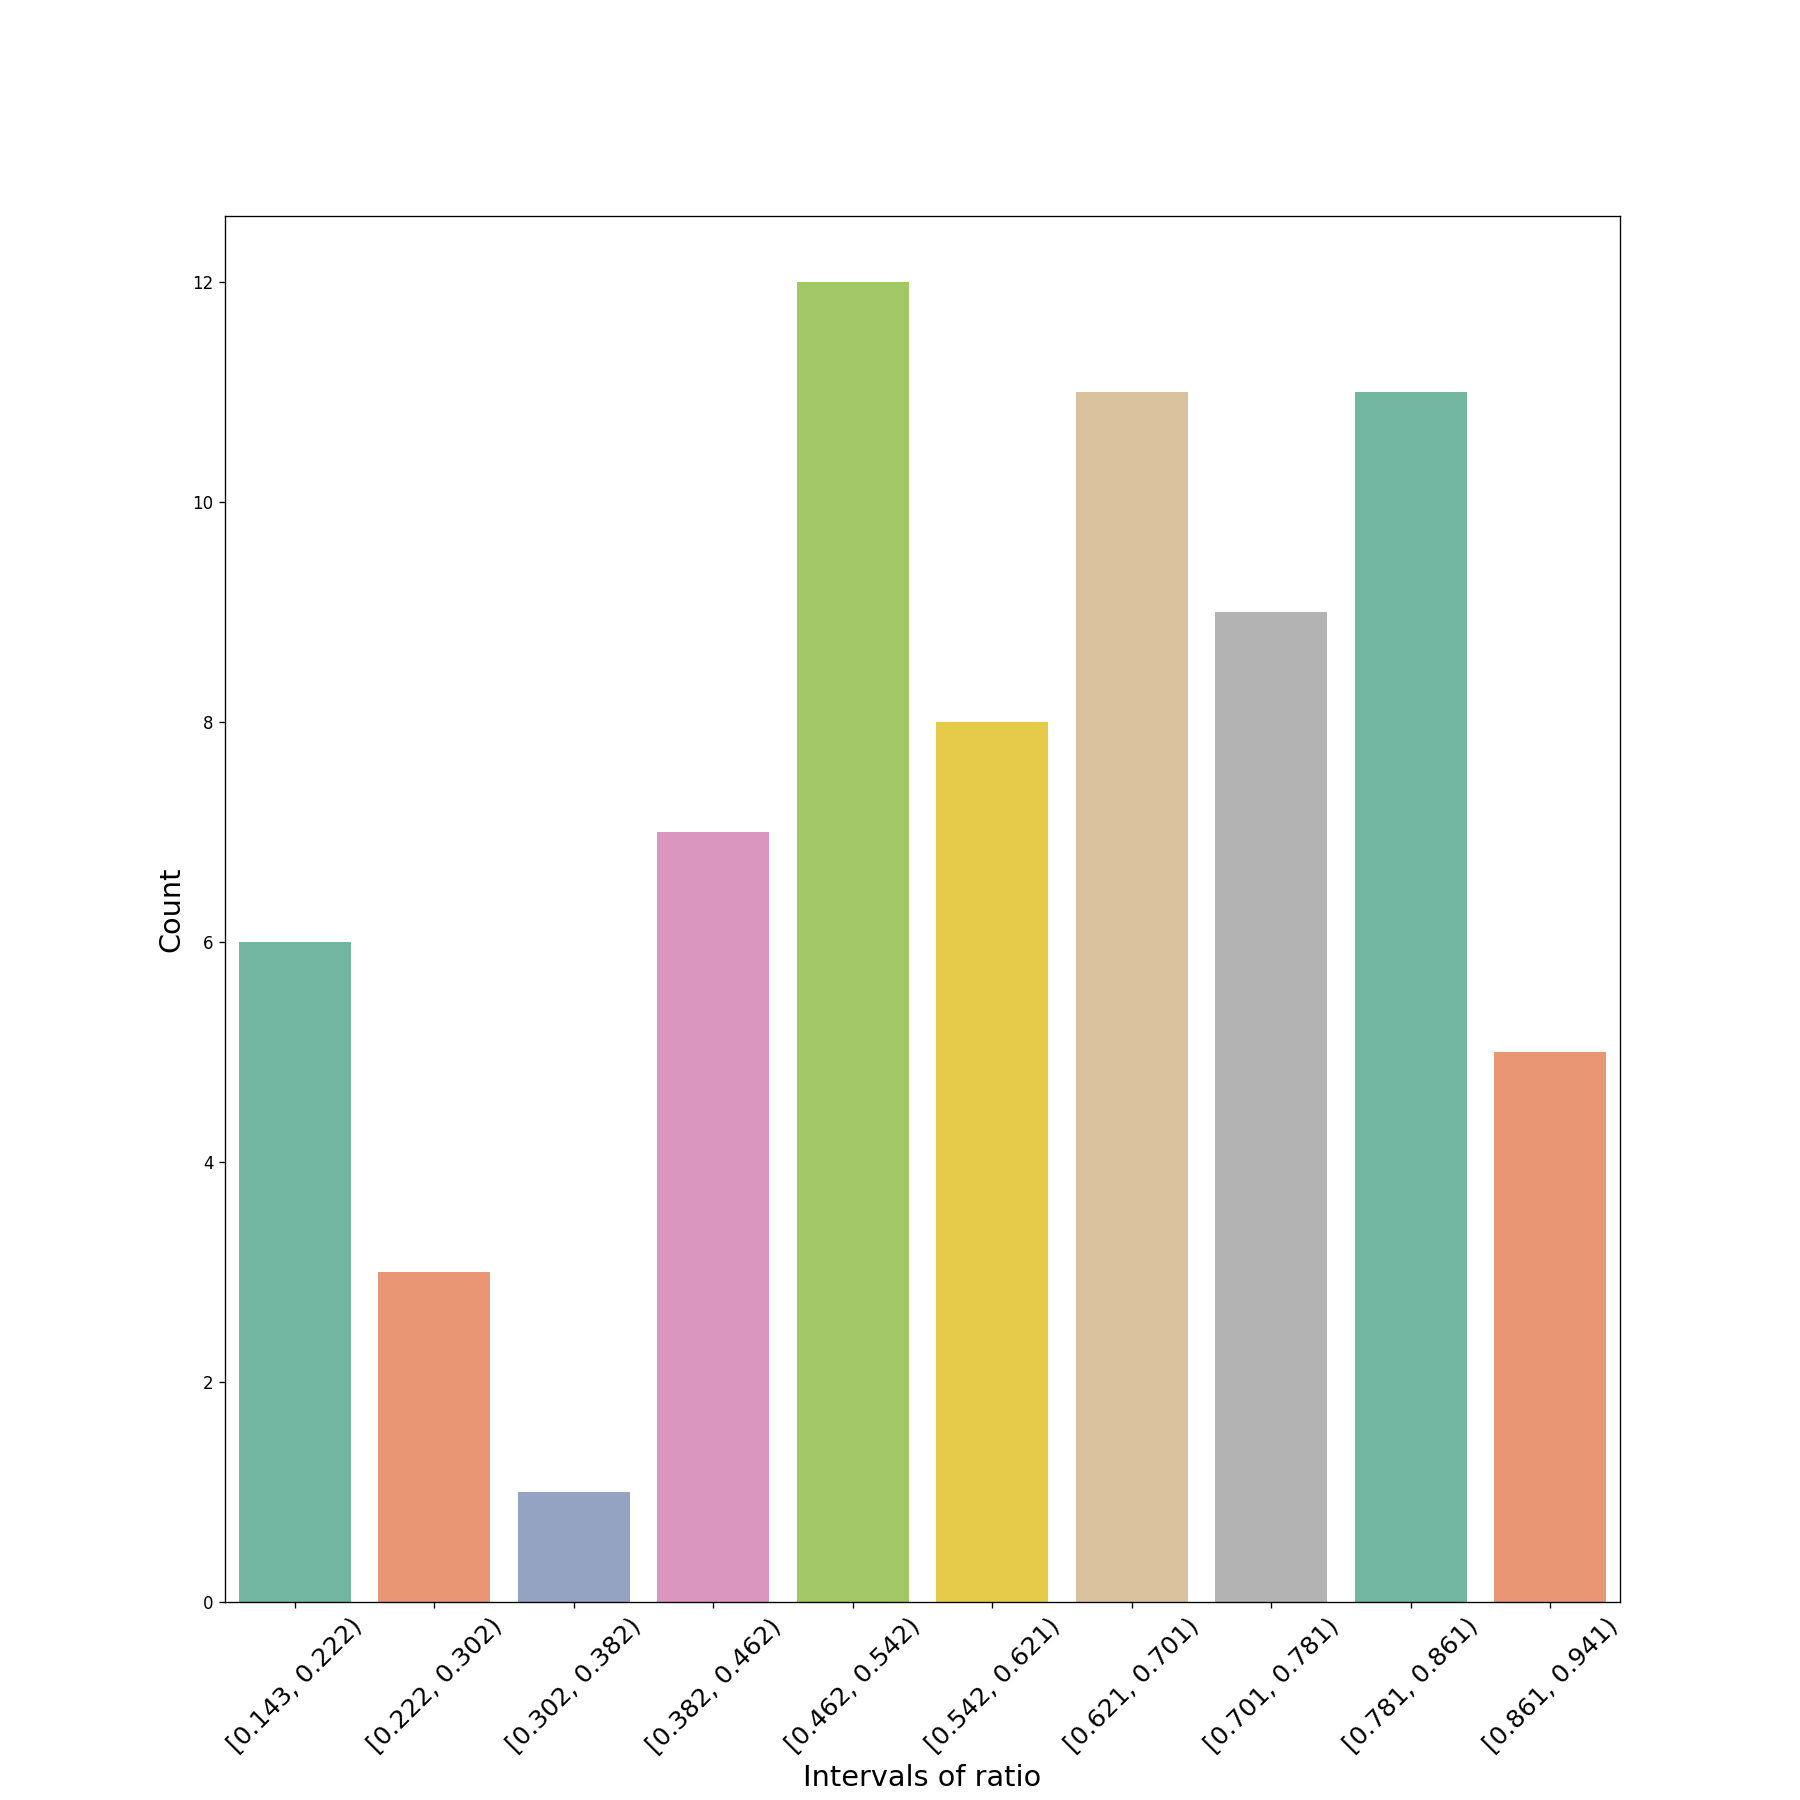
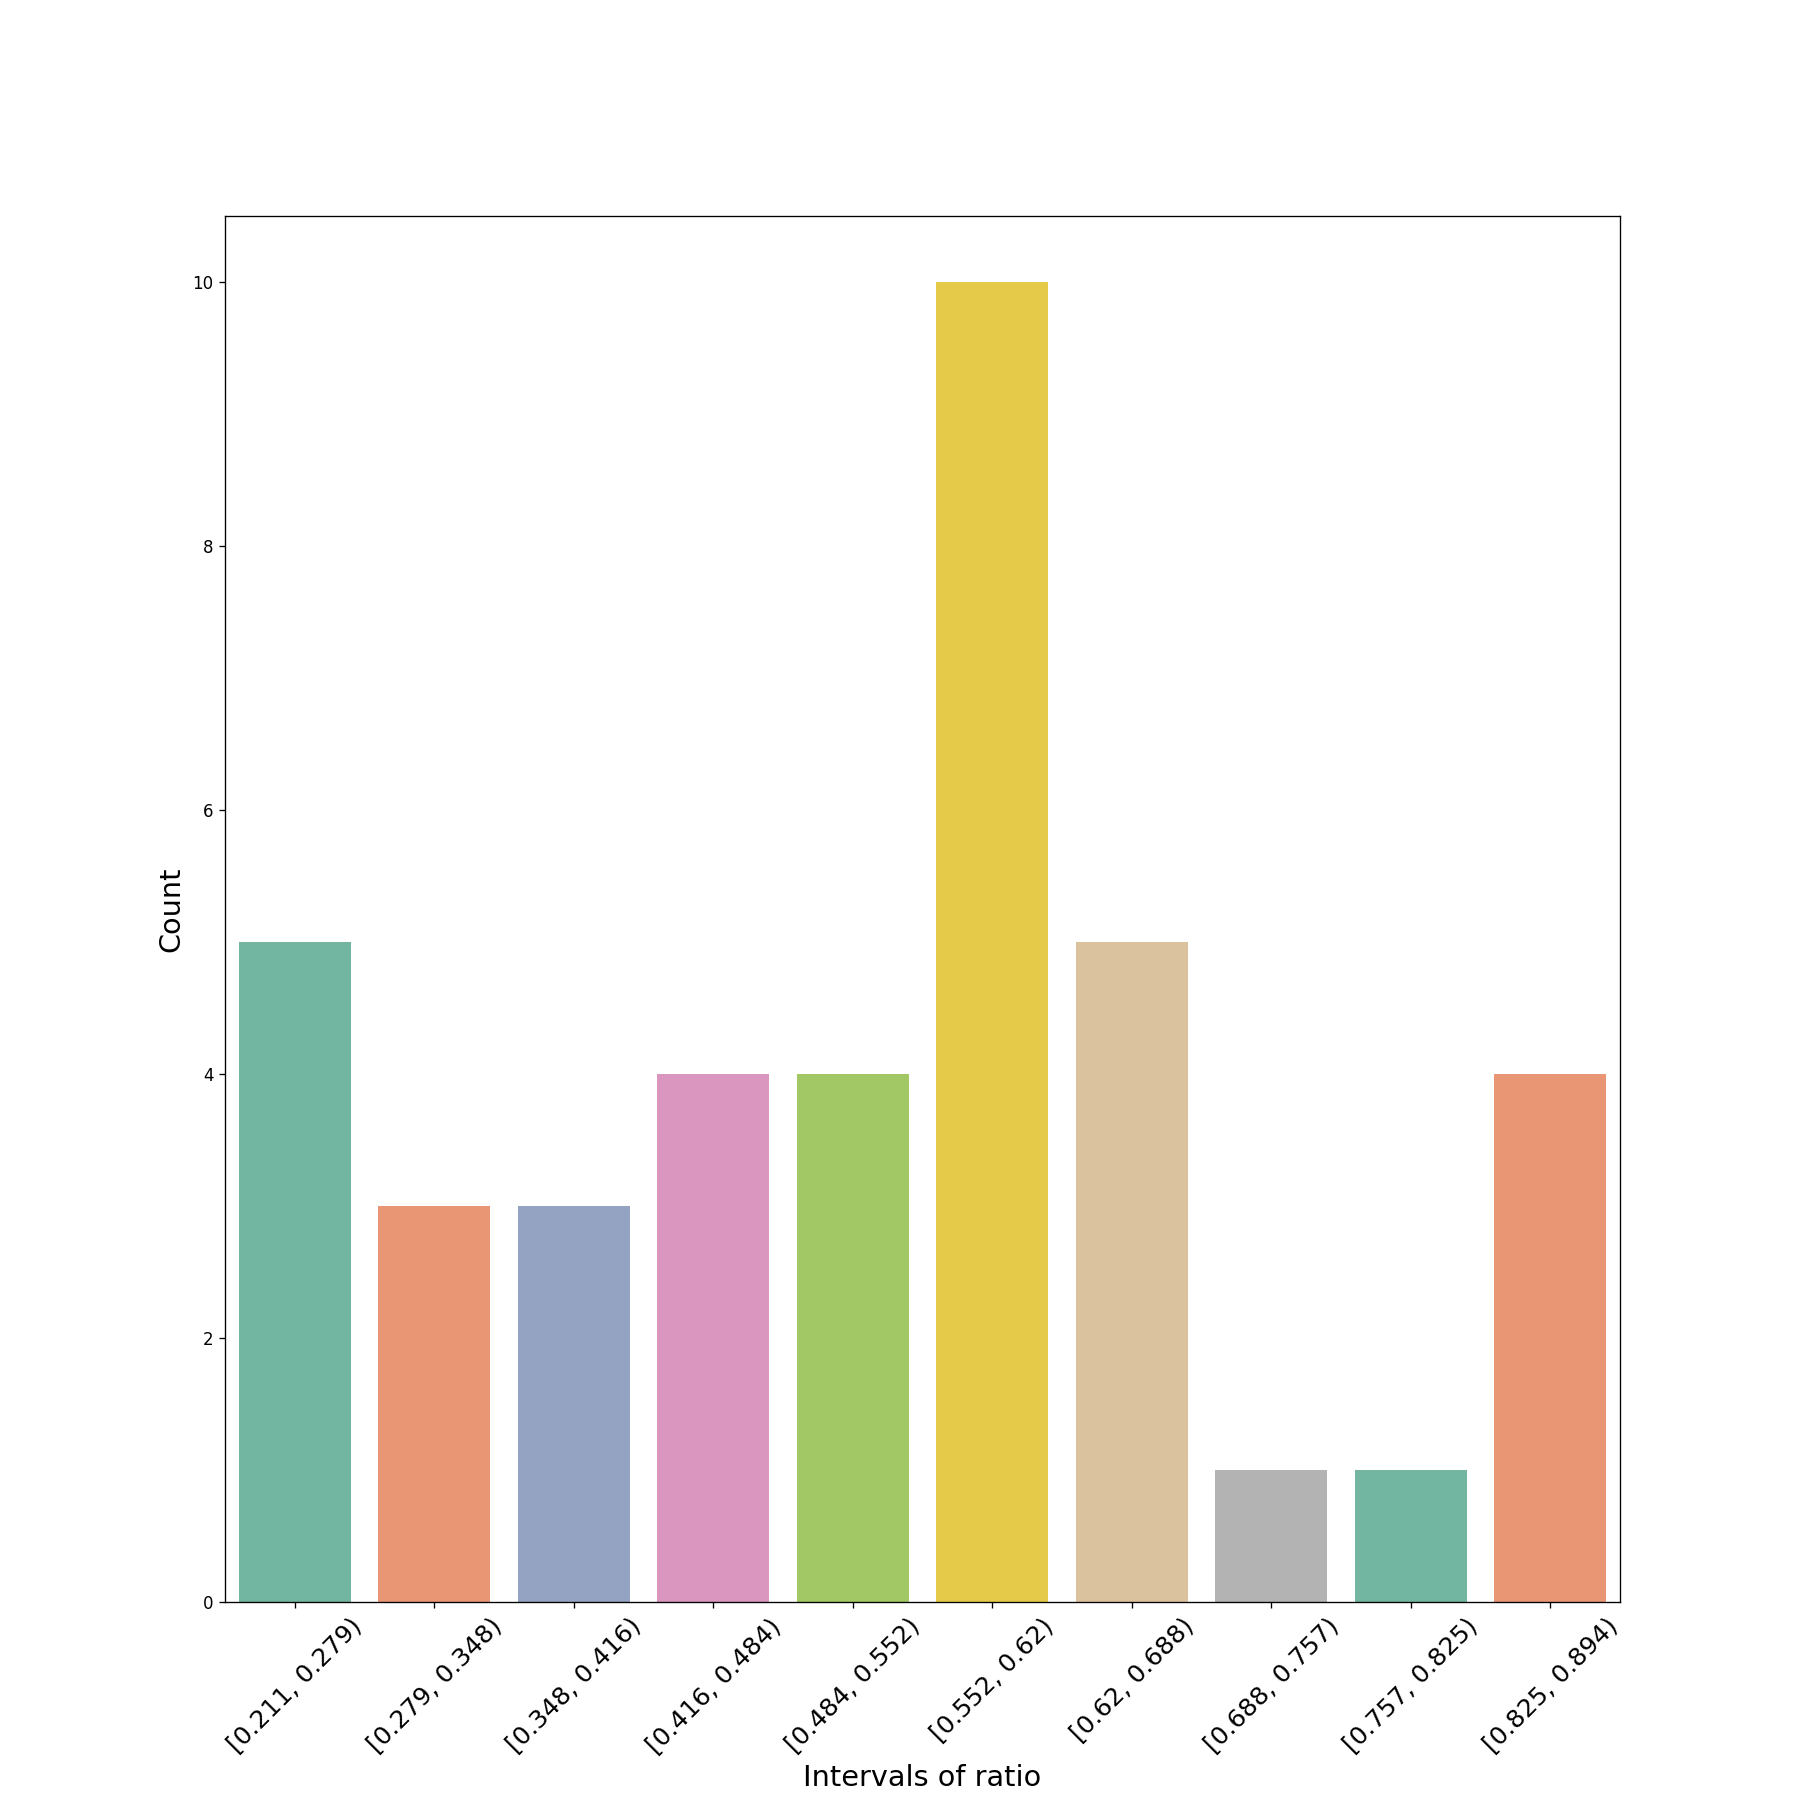
..

diff --git a/UI/ui_graphs.py b/UI/ui_graphs.py
@@ -17,7 +17,7 @@ class Ui_Graphs(object):
         Graphs.resize(830, 513)
         Graphs.setMinimumSize(QtCore.QSize(800, 500))
         icon = QtGui.QIcon()
-        icon.addPixmap(QtGui.QPixmap("../../../Desktop/icon-graphs.png"), QtGui.QIcon.Normal, QtGui.QIcon.Off)
+        icon.addPixmap(QtGui.QPixmap(":/assets/icons/graph-icon.png"), QtGui.QIcon.Normal, QtGui.QIcon.Off)
         Graphs.setWindowIcon(icon)
         Graphs.setStyleSheet("background-color: #282c34")
         self.verticalLayout_2 = QtWidgets.QVBoxLayout(Graphs)
@@ -29,8 +29,8 @@ class Ui_Graphs(object):
         self.frame_graph_info.setFrameShadow(QtWidgets.QFrame.Raised)
         self.frame_graph_info.setObjectName("frame_graph_info")
         self.verticalLayout = QtWidgets.QVBoxLayout(self.frame_graph_info)
-        self.verticalLayout.setContentsMargins(0, 0, 0, 0)
-        self.verticalLayout.setSpacing(0)
+        self.verticalLayout.setContentsMargins(9, 9, 9, 0)
+        self.verticalLayout.setSpacing(9)
         self.verticalLayout.setObjectName("verticalLayout")
         self.label_graph_2 = QtWidgets.QFrame(self.frame_graph_info)
         self.label_graph_2.setStyleSheet("#pagesContainer QPushButton {\n"
@@ -55,7 +55,7 @@ class Ui_Graphs(object):
         self.gridLayout_2.setObjectName("gridLayout_2")
         self.label_graph = QtWidgets.QLabel(self.label_graph_2)
         self.label_graph.setText("")
-        self.label_graph.setPixmap(QtGui.QPixmap("../../../Desktop/New folder (2)/images/2.png"))
+        self.label_graph.setPixmap(QtGui.QPixmap("../../../Google Drive/Final Project/train_dimpels/images/4.png"))
         self.label_graph.setScaledContents(True)
         self.label_graph.setAlignment(QtCore.Qt.AlignCenter)
         self.label_graph.setObjectName("label_graph")
@@ -67,7 +67,7 @@ class Ui_Graphs(object):
         self.frame_widgets.setFrameShadow(QtWidgets.QFrame.Raised)
         self.frame_widgets.setObjectName("frame_widgets")
         self.horizontalLayout_2 = QtWidgets.QHBoxLayout(self.frame_widgets)
-        self.horizontalLayout_2.setContentsMargins(0, 0, 0, 0)
+        self.horizontalLayout_2.setContentsMargins(0, 0, 0, 9)
         self.horizontalLayout_2.setSpacing(0)
         self.horizontalLayout_2.setObjectName("horizontalLayout_2")
         self.btn_save_graph = QtWidgets.QPushButton(self.frame_widgets)
@@ -138,6 +138,7 @@ class Ui_Graphs(object):
         self.combobox_graphs.setItemText(0, _translate("Graphs", "Area Graph"))
         self.combobox_graphs.setItemText(1, _translate("Graphs", "Ratio Graph"))
         self.combobox_graphs.setItemText(2, _translate("Graphs", "Depth Graph"))
+import icons_rc
 
 
 if __name__ == "__main__":

diff --git a/UI/main.py b/UI/main.py
@@ -1022,7 +1022,12 @@ class MainWindow(QMainWindow):
                 list_item = calculation_page_list.item(index)
                 list_item_name = list_item.text()
                 if list_item_name in self.graphs_popups:
-                    continue
+                    is_visible = self.graphs_popups[list_item_name]['graphs'].isVisible()
+                    if is_visible:
+                        continue
+                    else:
+                        self.graphs_popups.pop(list_item_name)
+
                 ratio_numpy_image = createRatioBinPlot(self.imagesAnalyse[list_item_name])
                 area_numpy_image = createAreaHistPlot(self.imagesAnalyse[list_item_name])
                 self.graphs_popups[list_item_name] = {
@@ -1165,14 +1170,18 @@ class MainWindow(QMainWindow):
             self.merge_original_w_drawn(images_drawn, images_analyzed, checked_calculate_items)
             self.evnCurrentItemChanged(import_list.currentItem(), self.ui.label_calculate_page_selected_picture,
                                        self.imagesDrawn, "calculation")
-            if check_box_flags["show_in_contours"] or check_box_flags["show_in_contours"]:
-                self.updateGraphPopupsAfterShowButtonClicked(import_list)
+
+            if check_box_flags["show_in_contours"] or check_box_flags["show_ex_contours"]:
+                if self.graphs_popups.__len__() > 0:
+                    self.updateGraphPopupsAfterShowButtonClicked(import_list)
 
     def updateGraphPopupsAfterShowButtonClicked(self, import_list):
         for index in range(import_list.count()):
             if import_list.item(index).checkState() == 2:
                 list_item = import_list.item(index)
                 list_item_name = list_item.text()
+                if list_item_name not in self.graphs_popups:
+                    continue
                 ratio_numpy_image = createRatioBinPlot(self.imagesAnalyse[list_item_name])
                 area_numpy_image = createAreaHistPlot(self.imagesAnalyse[list_item_name])
                 updated_graphs = {
